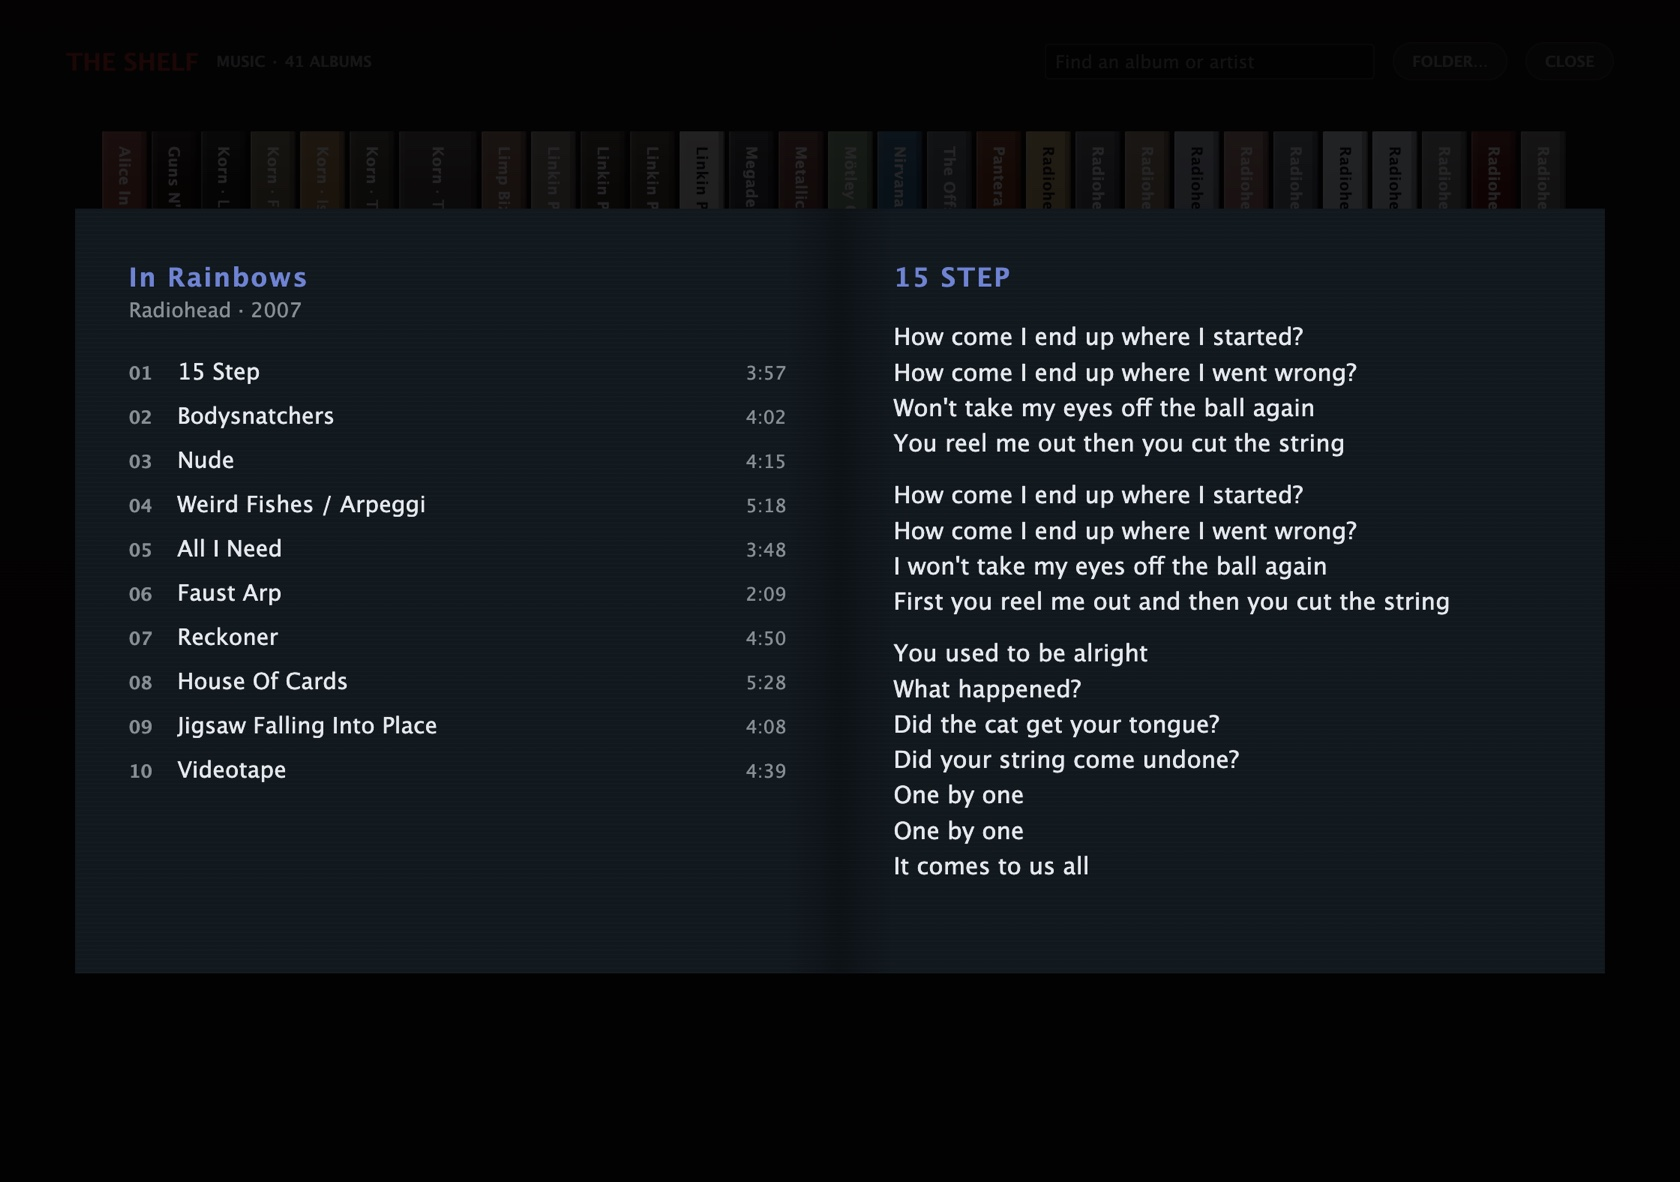
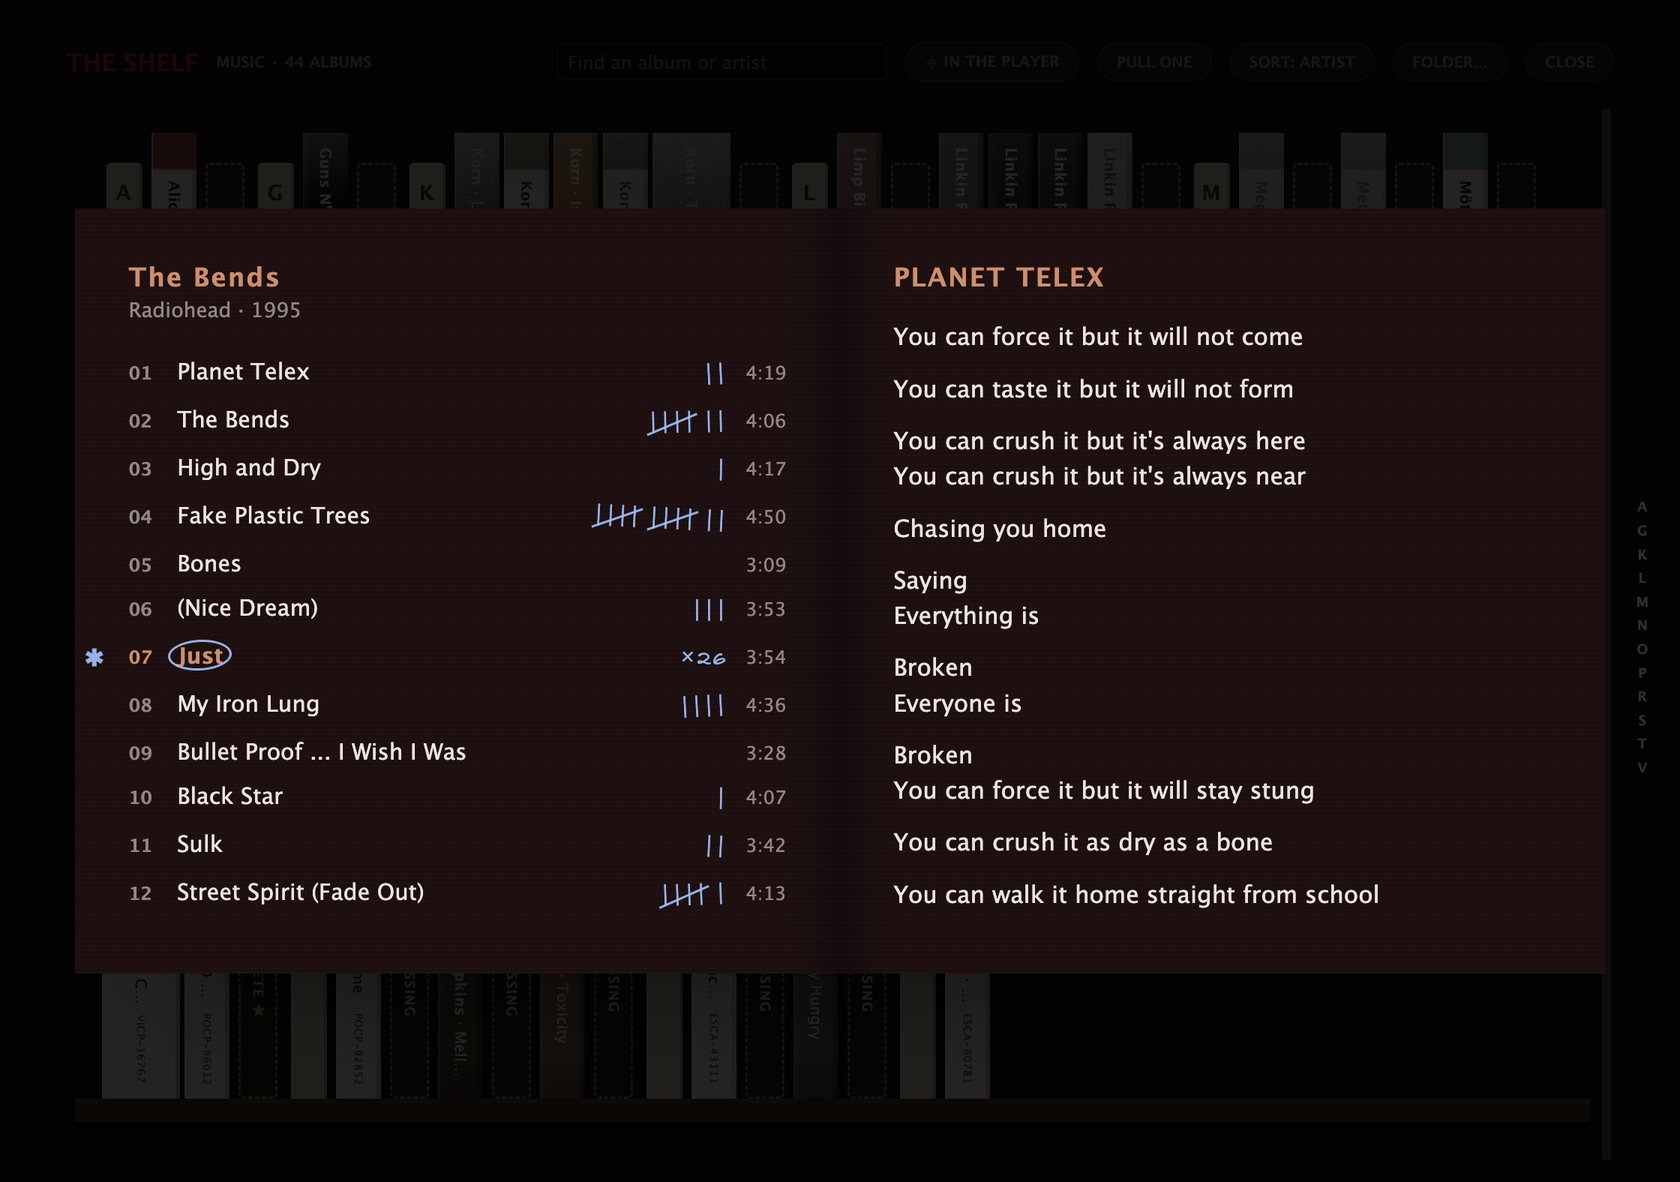
README: new screenshots — the shelf with dust, shrink-wrap and missing albums, a case with its note and receipt, the booklet in pen, a worn disc and its other side, sorting by colour, the first-run guide — and the FAQ

diff --git a/README.md b/README.md
@@ -4,7 +4,7 @@ CDPlayer is a desktop music player that recreates the tactile feel of a physical
 
 **Download it, open it, and it plays.** MP3, M4A (AAC *and* Apple Lossless), FLAC, WAV, AIFF, AU, OGG and Opus all work out of the box on macOS, Windows and Linux. There is nothing else to install — no FFmpeg, no Java.
 
-Put a real CD in the drive and play it, or **rip it to FLAC** in one click. Browse your albums spine-out on **the CD shelf**, open an album's **booklet**, and sing along with **karaoke** that lights up each word as it's sung.
+Put a real CD in the drive and play it, or **rip it to FLAC** in one click. Browse your albums spine-out on **the CD shelf** — where albums you've left alone gather dust, new ones come shrink-wrapped, and the albums you're missing stand as see-through places — open an album's **booklet**, marked in pen as you play it, and sing along with **karaoke** that lights up each word as it's sung. Discs wear with play, and turn over to show their tracks.
 
 <p align="center">
   <img src="docs/screenshots/main-red.jpg" width="49%" alt="CDPlayer main window, RED theme, playing a ripped OK Computer">
@@ -30,6 +30,12 @@ These builds aren't signed with a paid Apple/Microsoft developer certificate, so
 - **macOS:** if you see *"CDPlayer can't be opened because Apple cannot check it"*, right-click the app in Applications → **Open** → **Open**. (Or: System Settings → Privacy & Security → **Open Anyway**.) Only needed once.
 - **Windows:** if SmartScreen says *"Windows protected your PC"*, click **More info** → **Run anyway**. Only needed once.
 - **Linux:** nothing extra.
+
+The first time it opens, CDPlayer shows a short guide — five cards: putting music on, the disc, the shelf, lyrics, and making it yours. It's always there again in **Settings → HELP**, with a **FAQ** (also [below](#faq)) and every **keyboard shortcut** (or press `?`).
+
+<p align="center">
+  <img src="docs/screenshots/guide.jpg" width="60%" alt="The first-run guide: WELCOME TO CDPLAYER, the first of five cards">
+</p>
 
 ## Features
 
@@ -70,14 +76,19 @@ These builds aren't signed with a paid Apple/Microsoft developer certificate, so
 - **The receipt**: tucked behind every case's cover, the till receipt from the (made-up) record shop it was bought at, the day it turned up in your music folder, for the price on its sticker — click its edge to pull it out
 - **Sticky notes**: **+ NOTE** on a case sticks a note on its front, written in marker ("lend to Sam", "for the long drive") — click it to change it, × to peel it off. Its corner shows above the spine, and the shelf's search finds albums by their notes too
 - **Missing albums**: sorted by artist, every artist on the shelf gets a box after their albums — **+5 MISSING** — counting their studio albums you don't have, from [MusicBrainz](https://musicbrainz.org) (not live records, compilations, EPs or singles). Click it and they stand on the shelf as see-through places, oldest first; click one for its cover and tracklist, **PLAY ON SPOTIFY**, **MUSICBRAINZ**, or **NOT INTERESTED** to never see it again. Looked up as artists scroll into view, and kept for a month. And a case you pull out lists the album's whole tracklist, the songs you don't have in grey
+- **Getting about**: an index down the shelf's right edge jumps to a letter, month, decade or colour, whichever way it's sorted, and **⌖ IN THE PLAYER** goes to the album whose disc is in
 - Some cases are Japanese editions, with an **obi** round the spine and a yen price; others still wear a shop's price sticker; and an album that turned up in your music folder in the last two weeks has a **NEW** sticker
 
 <p align="center">
-  <img src="docs/screenshots/shelf.jpg" width="49%" alt="The CD shelf: every album spine-out, in the colours of its cover">
-  <img src="docs/screenshots/shelf-case.jpg" width="49%" alt="A case pulled out of the shelf: the cover, the tracklist, PLAY and ADD TO QUEUE">
+  <img src="docs/screenshots/shelf.jpg" width="49%" alt="The CD shelf sorted by artist: dusty spines, new albums shrink-wrapped, a sticky note's corner, +N MISSING boxes and the index down the side">
+  <img src="docs/screenshots/shelf-case.jpg" width="49%" alt="A case pulled out: a sticky note and the receipt on its cover, the songs you don't have in grey">
 </p>
 <p align="center">
-  <img src="docs/screenshots/booklet.jpg" width="70%" alt="An album's booklet: the tracklist and the first song's lyrics">
+  <img src="docs/screenshots/missing-albums.jpg" width="49%" alt="A missing album's ghost case: Korn's Untouchables, its cover and tracklist, NOT INTERESTED and MUSICBRAINZ">
+  <img src="docs/screenshots/shelf-color.jpg" width="49%" alt="The shelf sorted by colour, round the rainbow">
+</p>
+<p align="center">
+  <img src="docs/screenshots/booklet.jpg" width="70%" alt="An album's booklet marked in pen: tally marks for each song's plays, the favourite circled, and the lyrics">
 </p>
 
 **Spotify** (Premium)
@@ -126,6 +137,10 @@ These builds aren't signed with a paid Apple/Microsoft developer certificate, so
 - **Discord status**: while a song plays, your Discord profile shows *Listening to* the artist, with the song, a progress bar and the cover (when CDPlayer found it online). It talks only to the Discord app on your computer, clears when you pause, and can be turned off in Settings
 
 <p align="center">
+  <img src="docs/screenshots/disc-wear.jpg" width="49%" alt="A much-played disc in CD view: scratches, scuffs and a thumbprint over its cover art">
+  <img src="docs/screenshots/disc-data-side.jpg" width="49%" alt="The disc turned over (B): a ring for each track, the red laser where it's playing">
+</p>
+<p align="center">
   <img src="docs/screenshots/karaoke.jpg" width="70%" alt="Karaoke Mode: the line being sung, filling in word by word, a duet's singers on either side">
 </p>
 
@@ -142,13 +157,14 @@ These builds aren't signed with a paid Apple/Microsoft developer certificate, so
 
 **Settings**
 - Theme, Equalizer, Crossfade, Sleep Timer, Lyrics Offset, Mono Audio, Waveform, Ambient Background, Disc Wear, Animations, Mini Mode and Discord Status in one dialog
+- **Help**: the first-run guide again, the FAQ and the keyboard shortcuts
 - **Ambient Background** washes the window with a blurred glow of the current cover art
 - **Sleep Timer** pauses playback after up to 120 minutes, with a live countdown in the header (click it to cancel)
 - Everything — volume, crossfade, mono, EQ, theme, waveform, animations, window size and position — persists across launches
 - **Animations** toggle turns every hover fade, pulse and transition off at once
 
 <p align="center">
-  <img src="docs/screenshots/settings.jpg" width="55%" alt="CDPlayer Settings dialog">
+  <img src="docs/screenshots/settings.jpg" width="55%" alt="CDPlayer Settings, down to its HELP section: the guide, the FAQ and the keyboard shortcuts">
 </p>
 
 **Themes**
@@ -181,6 +197,32 @@ These builds aren't signed with a paid Apple/Microsoft developer certificate, so
 | `P` | Now Playing card: pick lines of the lyrics, then copy or save it |
 | `?` | These keyboard shortcuts |
 | `Esc` | Close whatever's open, or leave fullscreen / CD view / Visualizer Mode / Mini Mode |
+
+## FAQ
+
+**My Mac (or Windows) won’t open it — is it safe?**<br>
+CDPlayer isn’t signed with a paid Apple or Microsoft certificate, so the first time your system asks. On a Mac: right-click CDPlayer in Applications → Open → Open. On Windows: More info → Run anyway. Only once.
+
+**Why is there no cover or lyrics for a song?**<br>
+CDPlayer uses what’s in the file, and otherwise looks it up online by the song’s artist and title. A file named “Track 01” with no tags can’t be found: fix its name with TAGS, which can fill in the details from MusicBrainz.
+
+**Where is my data kept?**<br>
+In ~/.cdplayer on Mac and Linux, %LOCALAPPDATA%\CDPlayer on Windows: your queue, history, settings, notes and play counts, as small text files. Your music itself is never changed unless you save tags or found art into it.
+
+**How do I choose the folder my music is in?**<br>
+Open the SHELF and click FOLDER… (the first time, it asks). The shelf shows the albums in that folder and everything under it. Songs outside it still play — drop them on the window.
+
+**Why doesn’t the equalizer work on Spotify?**<br>
+Spotify’s audio is protected, so it plays outside CDPlayer’s sound engine: the equalizer, crossfade, mono, visualizer and waveform can’t reach it. Your own files get all of them.
+
+**What are the see-through “missing” albums on my shelf?**<br>
+Those are missing albums: sorted by artist, each artist’s studio albums you don’t have stand as see-through places, from MusicBrainz. Click one to see it, or NOT INTERESTED to hide it for good.
+
+**Does CDPlayer send anything over the internet?**<br>
+Only lookups: covers and lyrics by artist and title, album details from MusicBrainz, and a check for a new version on GitHub. No account, no tracking, nothing about you. Spotify talks to Spotify only if you connect it.
+
+**Why are some albums dusty, or wrapped in plastic?**<br>
+An album nobody has played in a month gathers dust (rub the mouse over its spine to wipe it); one new in your music folder comes shrink-wrapped until you play it or pull the film off its case.
 
 ## Coming from the Java version?
 
